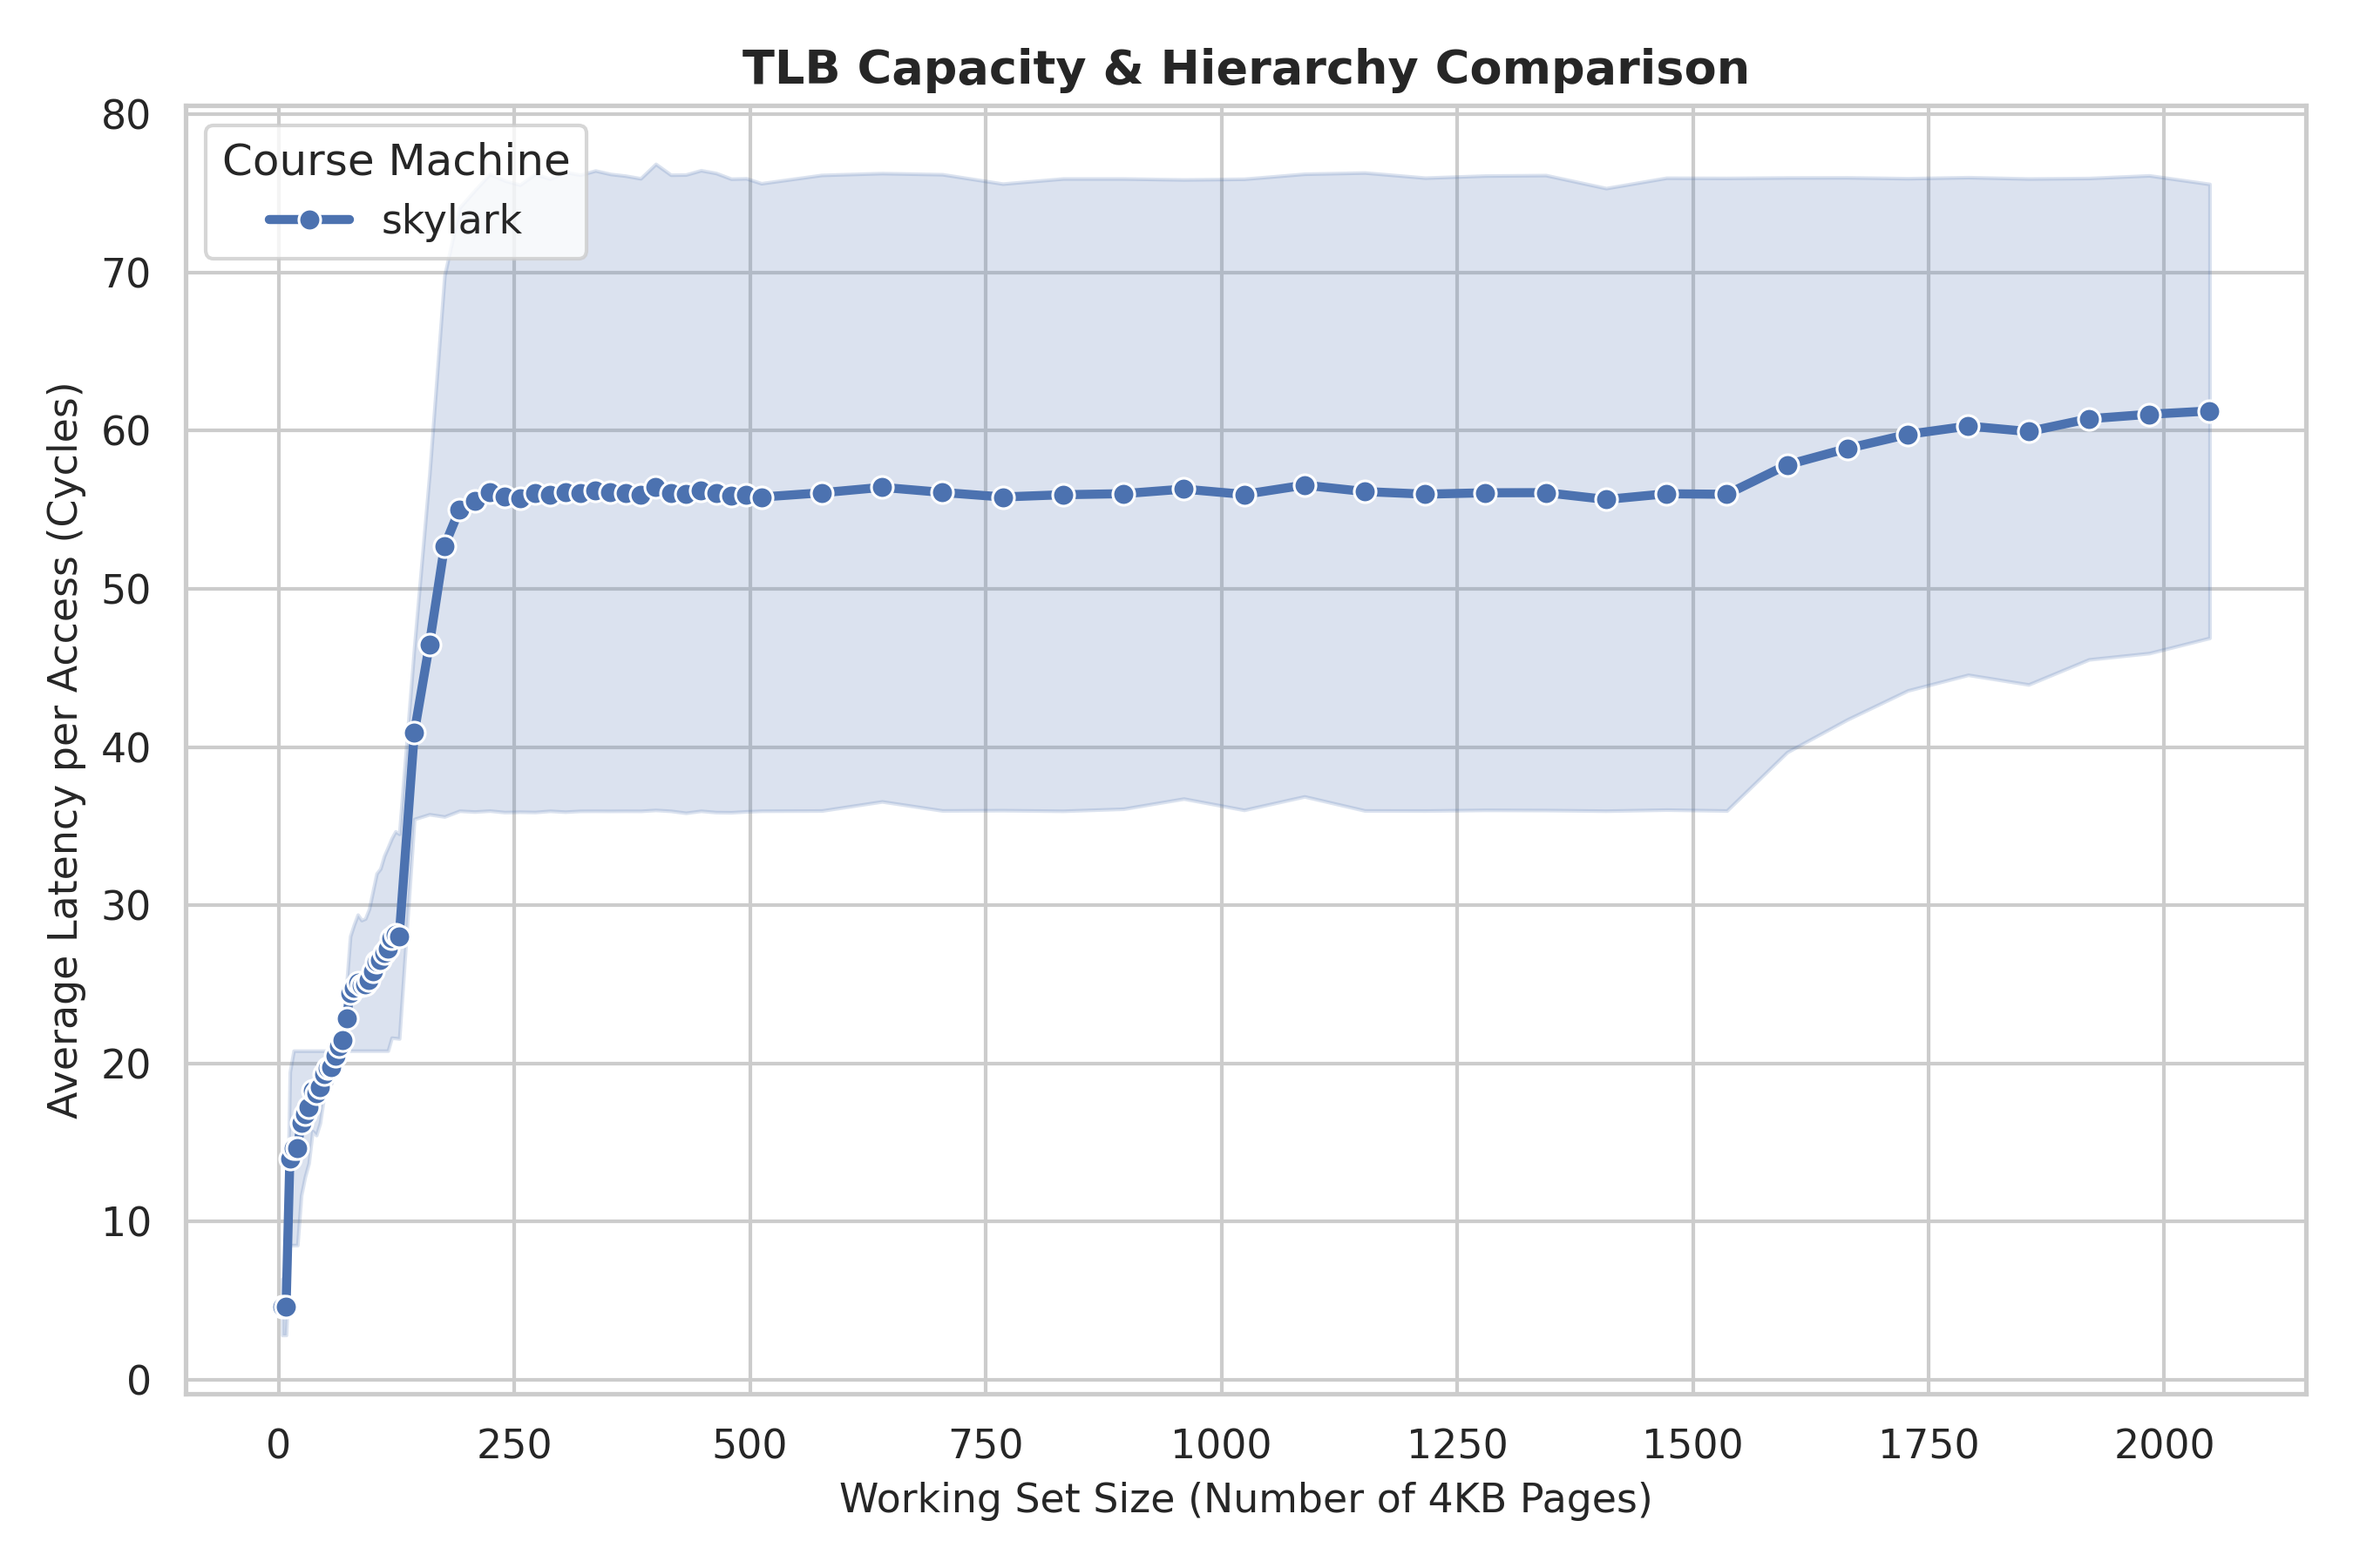
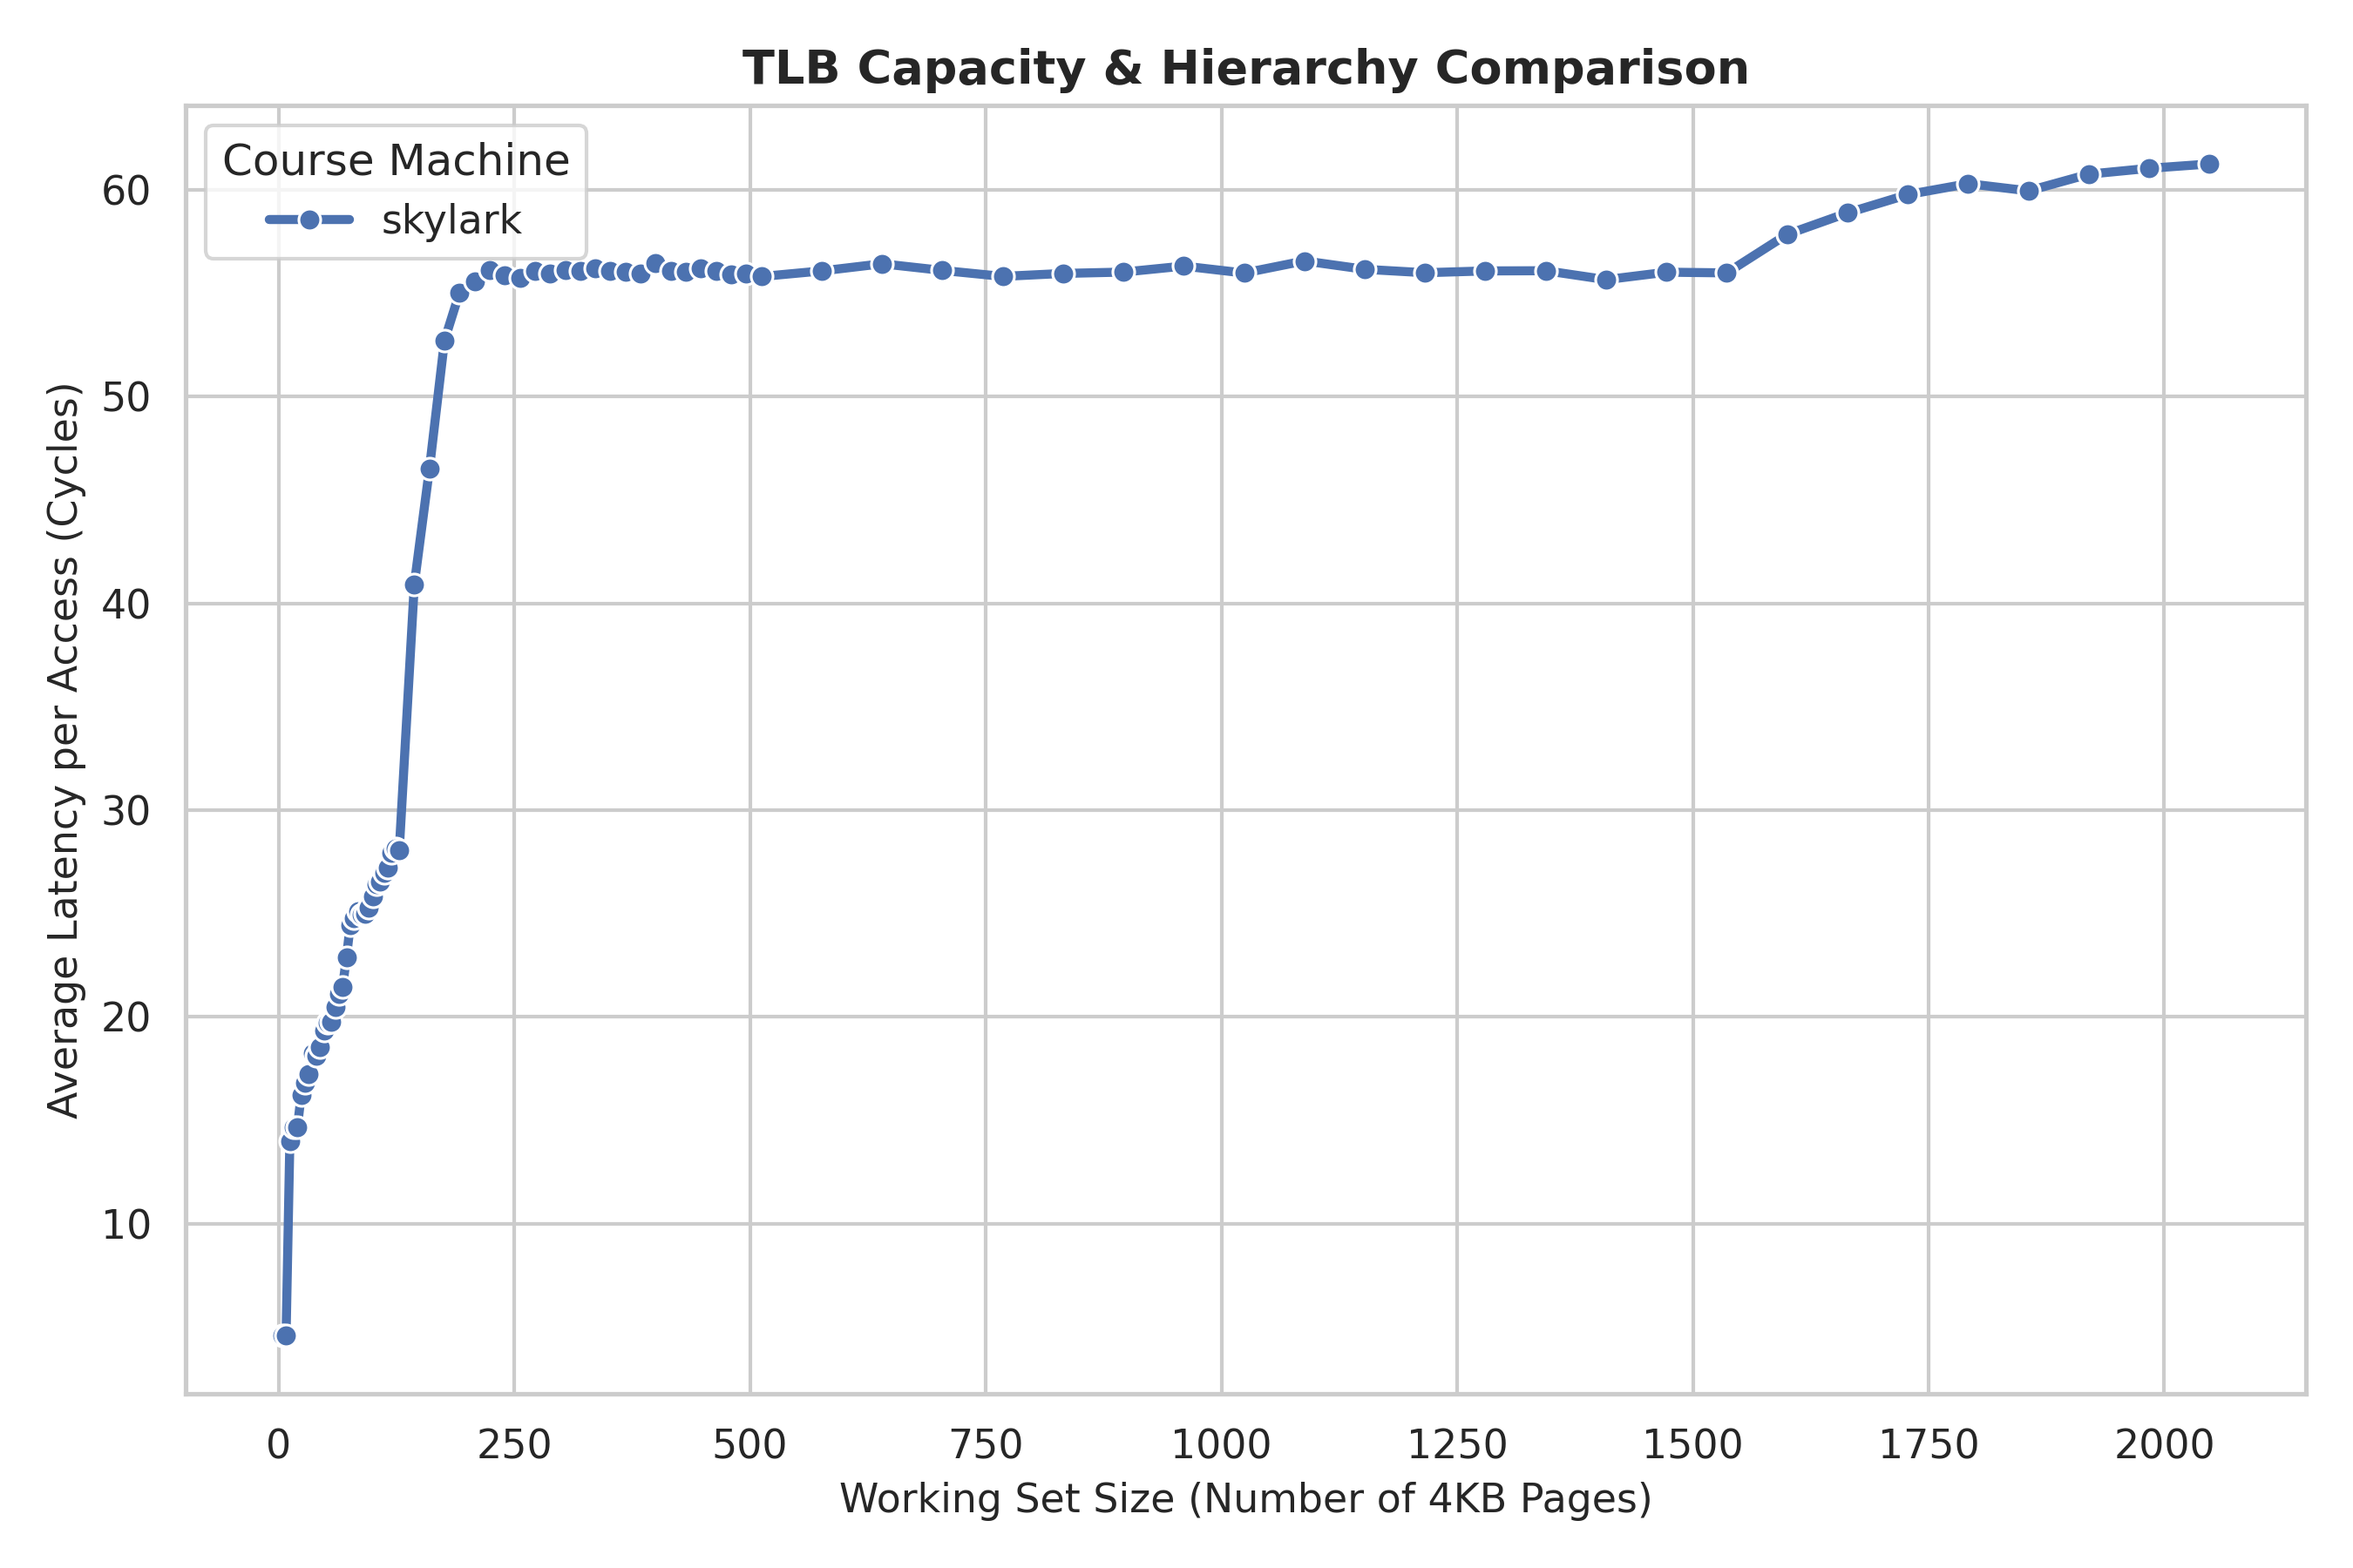
Restore upgrade TLB plot, update script to remove confidence bands, and add clean per-machine plots

diff --git a/plots/plot_tlb.py b/plots/plot_tlb.py
@@ -12,10 +12,45 @@ dfs = [pd.read_csv(f) for f in csv_files]
 if dfs:
     df = pd.concat(dfs, ignore_index=True)
     df.columns = df.columns.str.strip()
-    df["Machine_Clean"] = df["Machine"].str.split(".").str[0] if "Machine" in df.columns else "upgrade"
+    
+    # Clean machine name
+    if "Machine" in df.columns:
+        df["Machine_Clean"] = df["Machine"].str.split(".").str[0]
+    else:
+        df["Machine_Clean"] = "skylark"
 
     os.makedirs("plots", exist_ok=True)
 
+    # 1. Generate individual machine-specific plots (clean lines, no confidence bands)
+    for machine in df["Machine_Clean"].unique():
+        machine_df = df[df["Machine_Clean"] == machine].sort_values("Pages")
+        
+        sns.set_theme(style="whitegrid")
+        fig, ax = plt.subplots(figsize=(9, 6))
+
+        sns.lineplot(
+            data=machine_df, 
+            x="Pages", 
+            y="Avg_Cycles_Per_Access", 
+            marker="o", 
+            color="m",
+            linewidth=2.5, 
+            markersize=6, 
+            errorbar=None,  # Removes the shaded confidence interval band
+            ax=ax
+        )
+
+        ax.set_title(f"TLB Capacity & Hierarchy Benchmark ({machine})", fontsize=13, weight="bold")
+        ax.set_ylabel("Average Latency per Access (Cycles)", fontsize=11)
+        ax.set_xlabel("Working Set Size (Number of 4KB Pages)", fontsize=11)
+
+        plt.tight_layout()
+        out_path = f"plots/{machine}_tlb_capacity.png"
+        plt.savefig(out_path, dpi=300)
+        plt.close()
+        print(f"Saved clean machine-specific TLB plot: {out_path}")
+
+    # 2. Generate combined multi-machine comparison plot (clean lines, no shaded bands)
     sns.set_theme(style="whitegrid")
     fig, ax = plt.subplots(figsize=(9, 6))
 
@@ -23,21 +58,24 @@ if dfs:
         data=df, 
         x="Pages", 
         y="Avg_Cycles_Per_Access", 
+        hue="Machine_Clean",
         marker="o", 
-        color="m",
         linewidth=2.5, 
         markersize=6, 
+        errorbar=None,  # Removes the shaded confidence interval band
         ax=ax
     )
 
-    ax.set_title("TLB Capacity & Hierarchy Benchmark", fontsize=13, weight="bold")
+    ax.set_title("TLB Capacity & Hierarchy Comparison", fontsize=13, weight="bold")
     ax.set_ylabel("Average Latency per Access (Cycles)", fontsize=11)
     ax.set_xlabel("Working Set Size (Number of 4KB Pages)", fontsize=11)
+    ax.legend(title="Course Machine", loc="upper left")
 
     plt.tight_layout()
-    out_path = "plots/tlb_capacity_upgrade.png"
-    plt.savefig(out_path, dpi=300)
+    comparison_path = "plots/tlb_capacity_comparison.png"
+    plt.savefig(comparison_path, dpi=300)
     plt.close()
-    print(f"Saved TLB plot: {out_path}")
+    print(f"Saved clean TLB comparison plot: {comparison_path}")
+
 else:
     print("Error: No TLB CSV data found.")
